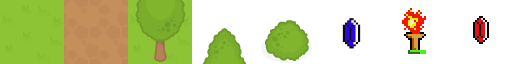
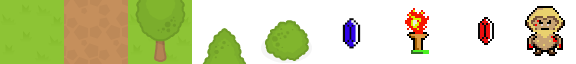
enemys

diff --git a/js/main.js b/js/main.js
@@ -2,17 +2,47 @@ document.addEventListener('DOMContentLoaded', (event) => {
     
     var context = document.getElementById('demo').getContext('2d');
     var game = new Game(new imgs(), new keyboard() ,new map());
+
     const startBtn = document.getElementById('start');
+    const pauseBtn = document.getElementById('select');
+    const restBtn  = document.getElementById('buttonRest');
+    const contBtn  = document.getElementById('buttonContinuar');
 
     startBtn.addEventListener('click', start);
+    pauseBtn.addEventListener('click', pause);
+    restBtn.addEventListener('click', start);
+    contBtn.addEventListener('click', cont);
+
+    let demo = document.getElementById('demo');
+    let splash = document.getElementById('splash');
+    
+    let maker = document.getElementById('marker');
+    let pauseScreen = document.getElementById('pause');
 
     function start(){
-        let demo = document.getElementById('demo');
-        let splash = document.getElementById('splash');
-        let maker = document.getElementById('marker');
-        demo.classList.remove('hidden');
-        splash.classList.add('hidden');
-        maker.classList.remove('hidden');
-        game.run(context); 
+        if(!splash.classList.contains('hidden')){
+            demo.classList.remove('hidden');
+            splash.classList.add('hidden');
+            maker.classList.remove('hidden');
+            game.run(context); 
+        }
+    }
+
+    function pause(){
+        if(splash.classList.contains('hidden')){
+            if(pauseScreen.classList.contains('hidden')){
+                pauseScreen.classList.remove('hidden');
+                demo.classList.add('hidden');
+                maker.classList.add('hidden');
+            }else{
+                pauseScreen.classList.add('hidden');
+                demo.classList.remove('hidden');
+                maker.classList.remove('hidden');
+            }
+        }
+    }
+
+    function cont(){
+        pauseScreen.classList.remove('hidden');
     }
 });

diff --git a/js/map.js b/js/map.js
@@ -23,7 +23,7 @@ class map{
             4, 3, 3, 3, 4, 3, 3, 3, 3, 3, 3, 3, 3, 3, 4,
             4, 0, 0, 0, 4, 0, 0, 0, 0, 0, 0, 0, 0, 5, 4,
             4, 0, 0, 0, 4, 6, 0, 0, 0, 5, 0, 6, 0, 0, 4,
-            4, 4, 4, 0, 3, 0, 5, 0, 0, 0, 6, 8, 6, 0, 4,
+            4, 4, 4, 0, 3, 0, 5, 9, 0, 0, 6, 8, 6, 0, 4,
             4, 3, 3, 0, 0, 0, 0, 0, 0, 6, 6, 6, 6, 6, 4,
             4, 0, 0, 0, 0, 0, 7, 0, 5, 0, 0, 0, 0, 0, 3,
             4, 0, 0, 0, 0, 0, 0, 0, 0, 0, 0, 0, 0, 0, 0,
@@ -44,15 +44,25 @@ class map{
     isSolidTileAtXY = function (x, y) {
         var column = Math.floor(x / this.tsize);
         var rowt = Math.floor(y / this.tsize);
-
-        // tiles 3 and 5 are solid -- the rest are walkable
-        // loop through all layers and return TRUE if any tile is solid
+        
         return this.layers.reduce(function (res, layer, index) {
             var tile = this.getTile(index, column, rowt);
             var isSolid = tile === 3 || tile === 5 || tile === 7;
+
             return res || isSolid;
         }.bind(this), false);
     };
+
+    isEnemy = function (x, y) {
+        var column = Math.floor(x / this.tsize);
+        var rowt = Math.floor(y / this.tsize);
+        var enemy = false;
+        return this.layers.reduce(function (res, layer, index) {
+            var tile = this.getTile(index, column, rowt);
+            if(tile === 9){ enemy = true; };
+            return res || enemy;
+        }.bind(this), false);
+    }
 
     getCol = function (x) {
         return Math.floor(x / this.tsize);

diff --git a/style.css b/style.css
@@ -129,7 +129,7 @@ body{
     float: right;
 }
 
-.select{
+#select{
     margin: 20px;
     font-family: 'Lobster';
     font-size: 19px;
@@ -233,4 +233,51 @@ td {
     font-size: 20px;
     position: relative;
     color: white;
+}
+
+#pause{
+    width: 900px;
+    height: 580px;
+    background-color: white;
+    border-radius: 10px;
+    margin: 0px auto 0px auto;
+    position: absolute;
+    top: 49.2%;
+    left: 50%;
+    transform: translate(-50%, -50%);
+}
+
+#buttonRest{
+    width: 100%;
+    position: relative;
+    top: 20px;
+    height: 100px;
+    background-image: linear-gradient(to right,white, #46a048 );
+    font-size: 16px;
+    font-weight: bold;
+    text-align: center;
+    margin: 0px;
+}
+
+#buttonContinuar{
+    width: 100%;
+    position: relative;
+    top: 40px;
+    height: 100px;
+    background-image: linear-gradient(to right, #46a048 ,white);
+    font-size: 16px;
+    font-weight: bold;
+    text-align: center;
+    margin-top: 12px;
+}
+
+.map{
+    width: 800px;
+    position: relative;
+    top: 70px;
+    left: 50px;
+    height: 270px;
+    background-color: lightgray;
+    font-size: 16px;
+    font-weight: bold;
 }

diff --git a/js/link.js b/js/link.js
@@ -28,7 +28,7 @@ class link{
         var row, col;
         // -1 in right and bottom is because image ranges from 0..63
         // and not up to 64
-        var left = this.x - this.width / 2;
+        var left = this.x - this.width / 2 ;
         var right = this.x + this.width / 2 - 1;
         var top = this.y - this.height / 2;
         var bottom = this.y + this.height / 2 - 1;
@@ -39,8 +39,16 @@ class link{
             this.map.isSolidTileAtXY(right, top) ||
             this.map.isSolidTileAtXY(right, bottom) ||
             this.map.isSolidTileAtXY(left, bottom);
+
+        var enemy =
+            this.map.isEnemy(left, top) ||
+            this.map.isEnemy(right, top) ||
+            this.map.isEnemy(right, bottom) ||
+            this.map.isEnemy(left, bottom);
+
+         if(enemy) { console.log('enemigo encontrado')}   
         if (!collision) { return; }
-    
+            
         if (diry > 0) {
             row = this.map.getRow(bottom);
             this.y = -this.height / 2 + this.map.getY(row);

diff --git a/js/game.js b/js/game.js
@@ -8,7 +8,8 @@ class Game {
         this.link               = undefined;
         this.tileAtlas          = undefined;
         this.rupee              = undefined;
-        this.camera             = undefined;              
+        this.camera             = undefined;  
+        this.count              = 0;            
     }
 
     run = function (context) {
@@ -75,7 +76,6 @@ class Game {
             diry = 1; 
             this.link.image = this.img.getImage('hero');
         }
-    
         this.link.move(delta, dirx, diry);
         this.camera.update();
     }.bind(this);
@@ -87,7 +87,7 @@ class Game {
         var endRow = startRow + (this.camera.height / this.map.tsize);
         var offsetX = -this.camera.x + startCol * this.map.tsize;
         var offsetY = -this.camera.y + startRow * this.map.tsize;
-    
+
         for (var c = startCol; c <= endCol; c++) {
             for (var r = startRow; r <= endRow; r++) {
                 var tile = this.map.getTile(layer, c, r);

diff --git a/index.html b/index.html
@@ -27,7 +27,7 @@
           <label> Start </label>
           <button class="buttonSelect"></button>
         </div>
-        <div class="select">
+        <div id="select">
           <label> Select </label>
           <button class="buttonStart"></button>
         </div>
@@ -48,6 +48,15 @@
       <canvas class="hidden" id="demo" width="832" height="515"></canvas>
       <div id="splash">
         <label class="startKey">  Start (Press the button Start) </label>
+      </div>
+      <div id="pause" class="hidden">
+        <div>
+          <button id="buttonRest"> Reset </button>
+          <button id="buttonContinuar"> Continue </button>
+          <div class="map"> 
+            <!-- <img src="../fotos/mapa.jpg"> -->
+          </div>
+        </div>
       </div>
       
       <button class="buttonA"> A </button>
